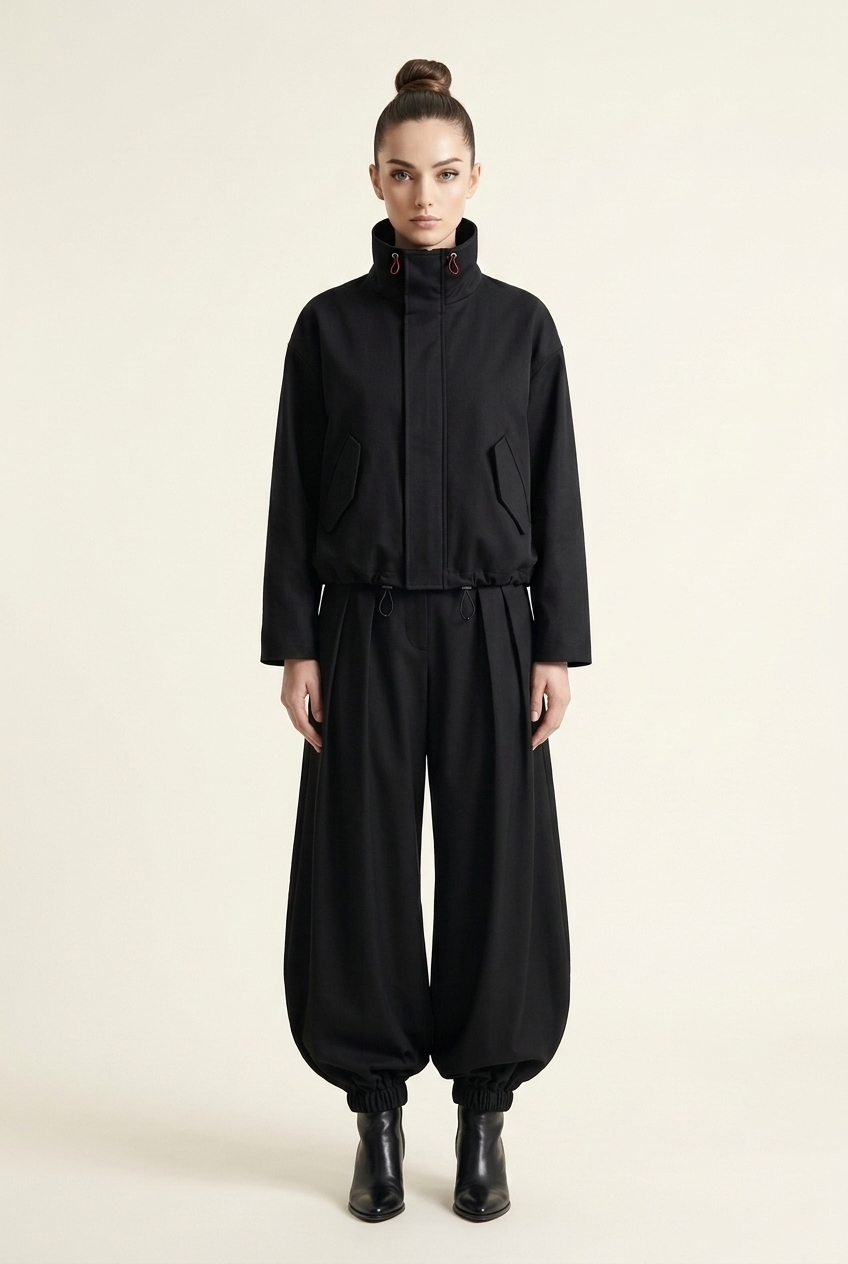
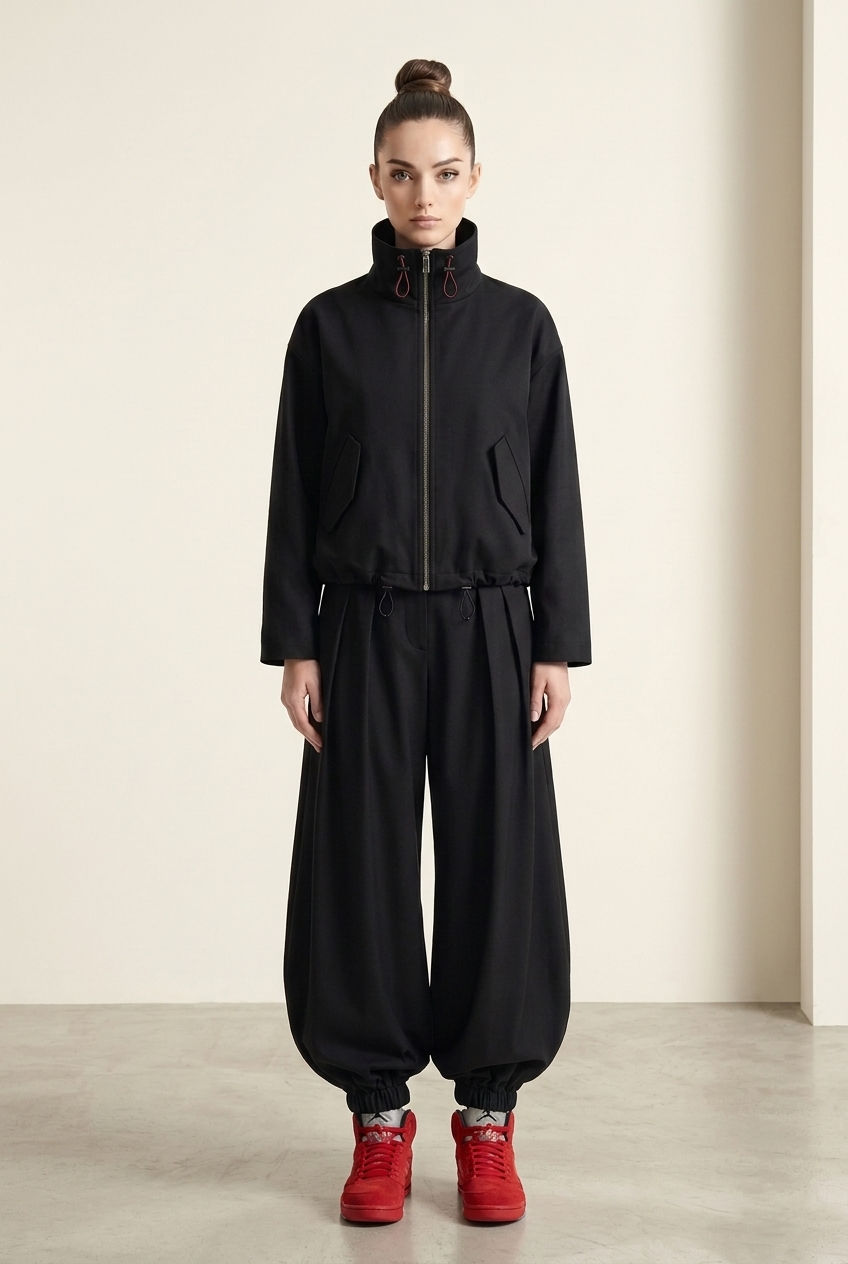
feat(kokusen): integrate Air Jordan 5 Retro Red Suede footwear styling and update visual assets to v1.4
- Register Air Jordan 5 Retro Red Suede reference in references/ and barrel files
- Regenerate and update 01-sketch-figurin-pantalon-globo.jpg with red sneakers
- Regenerate and update 01-sketch-personaje-frente.jpg with full look and red sneakers
- Regenerate and update 08-foto-realista-kokusen-hero.jpg editorial studio photo
- Synchronize SPEC.md, manifest.json, and index.ts to v1.4

Changed region(s): [[0.0, 0.0, 1.0, 1.0], [0.4599, 0.1851, 0.5519, 0.4628]]

diff --git a/Andreart Brain/01 Brand Context/Colecciones/Kokusen/index.ts b/Andreart Brain/01 Brand Context/Colecciones/Kokusen/index.ts
@@ -1,5 +1,5 @@
 /**
- * Collection Asset Barrel: Kokusen (v1.3)
+ * Collection Asset Barrel: Kokusen (v1.4)
  * AndreArt Vestuario - Urban Fantasy Haute Couture
  * 
  * Central entry point defining active assets, garments, and source references.
@@ -36,7 +36,7 @@ export interface CollectionReference {
 export const COLLECTION_INFO = {
   name: 'Kokusen',
   slug: 'kokusen',
-  version: '1.3',
+  version: '1.4',
   updatedAt: '2026-11-07',
   season: 'Atemporal / Clima Frío y Montaña (Bogotá)',
   concept: 'Deconstrucción sastre del uniforme de combate de Yuji Itadori (Jujutsu Kaisen, Shinjuku Showdown) y la técnica Kokusen',
@@ -70,8 +70,8 @@ export const ASSETS: Record<string, CollectionAsset> = {
     category: 'figurine',
     garment: 'Pantalón Globo Plisado Kokusen',
     view: 'pasarela',
-    description: 'Figurín de autor protagónico mostrando en exclusiva el Pantalón Globo Plisado con top fajado.',
-    sourceReference: './references/refe-pantalon-globo-01.jpg',
+    description: 'Figurín de autor protagónico mostrando en exclusiva el Pantalón Globo Plisado con top fajado y zapatillas Air Jordan 5 Retro Red Suede en gamuza carmesí.',
+    sourceReference: './references/refe-pantalon-globo-01.jpg, ./references/refe-calzado-jordan-5-red-suede.jpg',
     status: 'active',
     approved: true
   },
@@ -82,8 +82,8 @@ export const ASSETS: Record<string, CollectionAsset> = {
     category: 'figurine',
     garment: 'Conjunto Kokusen',
     view: 'frente-pasarela',
-    description: 'Figurín de moda de pasarela del look total black integrado (Chaqueta + Pantalón Globo sobre botines).',
-    sourceReference: './references/refe-pantalon-globo-01.jpg',
+    description: 'Figurín de moda de pasarela del look total black integrado (Chaqueta Cuello Chimenea con tancas + Pantalón Globo Plisado sobre zapatillas Air Jordan 5 Retro Red Suede).',
+    sourceReference: './references/refe-pantalon-globo-01.jpg, ./references/refe-calzado-jordan-5-red-suede.jpg',
     status: 'active',
     approved: true
   },
@@ -142,8 +142,8 @@ export const ASSETS: Record<string, CollectionAsset> = {
     category: 'editorial',
     garment: 'Conjunto Kokusen',
     view: 'editorial-lookbook',
-    description: 'Fotografía editorial ultra-realista de estudio con modelo real vistiendo el conjunto Kokusen completo sobre tacones.',
-    sourceReference: './references/refe-pantalon-globo-02.jpg',
+    description: 'Fotografía editorial ultra-realista de estudio con modelo real vistiendo el conjunto Kokusen completo con zapatillas Air Jordan 5 Retro Red Suede.',
+    sourceReference: './references/refe-pantalon-globo-02.jpg, ./references/refe-calzado-jordan-5-red-suede.jpg',
     status: 'active',
     approved: true
   }
@@ -161,5 +161,11 @@ export const REFERENCES: Record<string, CollectionReference> = {
     path: './references/refe-pantalon-globo-02.jpg',
     type: 'drape-fit',
     description: 'Referencia de caída y drapeado de gabardina de alto gramaje con bota recogida sobre calzado cerrado.'
+  },
+  'refe-calzado-jordan-5-red-suede': {
+    filename: 'refe-calzado-jordan-5-red-suede.jpg',
+    path: './references/refe-calzado-jordan-5-red-suede.jpg',
+    type: 'footwear-styling',
+    description: 'Referencia de calzado insignia: Zapatillas Air Jordan 5 Retro Red Suede en gamuza carmesí (#D01E29), lengüeta reflectiva plateada 3M y seguro de cordones transparente.'
   }
 };

diff --git a/Andreart Brain/01 Brand Context/Colecciones/Kokusen/SPEC.md b/Andreart Brain/01 Brand Context/Colecciones/Kokusen/SPEC.md
@@ -7,7 +7,7 @@ skills_used:
   - "tailor"
   - "textile-engineer"
 status: active
-version: "1.3"
+version: "1.4"
 created_at: 2026-11-07
 updated_at: 2026-11-07
 collection_name: "Kokusen"
@@ -54,7 +54,8 @@ Diseñado con dedicación artesanal y visión de autor para integrar la presenci
 - **Base Estructural Atemporal:** Negro azabache (#0D0D0E) y Carbón profundo (#1C1D21) en tejido de sarga y gabardina con acabado mate sin reflejos.
 - **Atmósfera Interior:** Forro completo en satín negro azabache (#0A0A0B) de tacto sedoso tanto en el cuerpo de la chaqueta como en los fondos de bolsillo del pantalón.
 - **Herrajes y Fornituras:** Níquel pavonado negro mate en cremalleras, broches de presión ocultos y tancas de freno.
-- **Identidad Itadori:** 100% arquitectónica. No requiere detalles de color en el cuerpo de la prenda; la pertenencia al personaje se transmite exclusivamente a través del volumen, la altura y caída del cuello chimenea (con su discreto detalle de ojaletes y tanca) y el patronaje bombacho abullonado del pantalón globo recogido en los tobillos.
+- **Identidad Itadori:** 100% arquitectónica en las prendas. No requiere contrastes de color en el cuerpo del vestuario; la pertenencia al personaje se transmite exclusivamente a través del volumen, la altura y caída del cuello chimenea (con su discreto detalle de ojaletes y tanca) y el patronaje bombacho abullonado del pantalón globo recogido en los tobillos.
+- **Calzado Insignia de Estilismo (Contraste Carmesí Itadori):** Como elemento de estilismo icónico que corona el look urbano de pasarela, el conjunto se complementa con las zapatillas retro de baloncesto **Air Jordan 5 Retro "Red Suede"** en gamuza rojo escarlata (#D01E29), lengüeta plateada 3M reflectiva, seguro de cordones transparente y dientes de tiburón negros en la media suela (`references/refe-calzado-jordan-5-red-suede.jpg`). Los puños elásticos fruncidos del pantalón globo descansan holgados sobre la caña alta de los tenis, recreando con fidelidad insuperable el impacto visual del héroe.
 
 ---
 
@@ -78,7 +79,7 @@ Diseñado con dedicación artesanal y visión de autor para integrar la presenci
 
 ## 📸 4.0. Fotografía Editorial Realista (Lookbook Hero)
 ![[01 Brand Context/Colecciones/Kokusen/assets/08-foto-realista-kokusen-hero.jpg]]
-*Fotografía Editorial Realista:* Modelo luciendo el conjunto Kokusen completo en estudio de alta costura: blouson técnico en sarga pesada con cuello chimenea estructurado (11 cm), tapeta con cremallera central y tancas en cuello, combinado con el nuevo Pantalón Globo Plisado Kokusen de tiro alto con pinzas profundas y puños elásticos fruncidos sobre botines de cuero negro.
+*Fotografía Editorial Realista:* Modelo luciendo el conjunto Kokusen completo en estudio de alta costura: blouson técnico en sarga pesada con cuello chimenea estructurado (11 cm), tapeta con cremallera central y tancas en cuello, combinado con el nuevo Pantalón Globo Plisado Kokusen de tiro alto con pinzas profundas y puños elásticos fruncidos sobre las zapatillas de baloncesto de autor **Air Jordan 5 Retro "Red Suede"** en rica gamuza roja escarlata, con lengüeta plateada reflectiva 3M y seguro de cordones transparente.
 
 ---
 
@@ -87,11 +88,11 @@ Diseñado con dedicación artesanal y visión de autor para integrar la presenci
 
 ### Figurín Individual: Pantalón Globo Plisado Kokusen (Protagónico)
 ![[01 Brand Context/Colecciones/Kokusen/assets/01-sketch-figurin-pantalon-globo.jpg]]
-*Figurín de Autor (Pantalón Globo):* Modelo estilizada anime en pose erguida de pasarela luciendo en exclusiva el Pantalón Globo Plisado Kokusen en negro azabache (#0D0D0E): tiro alto con pretina sastre, pasadores, cinturón negro con hebilla sobria, pliegues frontales dobles profundos que abren un volumen curvo y fluido tipo bombacho/balloon, y puños elásticos fruncidos ceñidos sobre botines negros de punta fina. Combinado con un top minimalista negro fajado para mantener el protagonismo absoluto en la arquitectura del pantalón.
+*Figurín de Autor (Pantalón Globo):* Modelo estilizada anime en pose erguida de pasarela luciendo en exclusiva el Pantalón Globo Plisado Kokusen en negro azabache (#0D0D0E): tiro alto con pretina sastre, pasadores, cinturón negro con hebilla sobria, pliegues frontales dobles profundos que abren un volumen curvo y fluido tipo bombacho/balloon, y puños elásticos fruncidos descansando sobre las zapatillas **Air Jordan 5 Retro "Red Suede"** en gamuza roja carmesí con lengüeta plateada reflectiva. Combinado con un top minimalista negro fajado para mantener el protagonismo absoluto en la arquitectura del pantalón.
 
 ### Figurín de Conjunto Completo Kokusen (Chaqueta + Pantalón Globo)
 ![[01 Brand Context/Colecciones/Kokusen/assets/01-sketch-personaje-frente.jpg]]
-*Figurín de Pasarela (Look Completo):* Modelo estilizada anime luciendo el conjunto Kokusen total black definitivo: blouson técnico con cuello chimenea estructurado (11 cm), cremallera central con tancas en cuello, hombros caídos y el Pantalón Globo Plisado de tiro alto con puños elásticos sobre botines negros.
+*Figurín de Pasarela (Look Completo):* Modelo estilizada anime luciendo el conjunto Kokusen total black definitivo: blouson técnico con cuello chimenea estructurado (11 cm), cremallera central con tancas en cuello, hombros caídos y el Pantalón Globo Plisado de tiro alto con puños elásticos descansando sobre las zapatillas **Air Jordan 5 Retro "Red Suede"** en contraste carmesí de autor.
 
 ---
 
@@ -112,7 +113,10 @@ Diseñado con dedicación artesanal y visión de autor para integrar la presenci
 *Pantalón Globo - Vista Trasera:* Croquis técnico a mano alzada mostrando pretina trasera con pasadores, pinzas de entalle anatómico, doble bolsillo de vivo horizontal limpio, holgura dorsal y puños elásticos en bota.
 
 ![[01 Brand Context/Colecciones/Kokusen/references/refe-pantalon-globo-01.jpg]]
-*Referencia de Diseño y Flat de Taller:* Silueta de tiro alto con pretina sastre formal, cinturón, pliegues frontales dobles profundos y bota recogida en tobillo sobre botines de cuero. A la derecha, despiece en plano.
+*Referencia de Diseño y Flat de Taller:* Silueta de tiro alto con pretina sastre formal, cinturón, pliegues frontales dobles profundos y bota recogida en tobillo sobre calzado cerrado. A la derecha, despiece en plano.
+
+![[01 Brand Context/Colecciones/Kokusen/references/refe-calzado-jordan-5-red-suede.jpg]]
+*Referencia Oficial de Calzado:* Zapatillas Air Jordan 5 Retro "Red Suede" en gamuza roja carmesí (#D01E29), lengüeta plateada reflectiva 3M, tanca de cordones transparente y dientes de tiburón negros en la media suela. Aporte clave de contraste dinámico para el arquetipo Itadori.
 
 ---
 
@@ -122,13 +126,13 @@ La colección cuenta con un barrel tipado en TypeScript ([index.ts](file:///User
 
 | ID del Activo | Archivo en `assets/` | Tipología | Prenda / Pieza | Referencia Fuente |
 | :--- | :--- | :--- | :--- | :--- |
-| `01-sketch-figurin-pantalon-globo` | `01-sketch-figurin-pantalon-globo.jpg` | Figurín Protagónico | Pantalón Globo Plisado Kokusen | `references/refe-pantalon-globo-01.jpg` |
-| `01-sketch-personaje-frente` | `01-sketch-personaje-frente.jpg` | Figurín Conjunto Completo | Conjunto Kokusen Total Black | `references/refe-pantalon-globo-01.jpg` |
+| `01-sketch-figurin-pantalon-globo` | `01-sketch-figurin-pantalon-globo.jpg` | Figurín Protagónico | Pantalón Globo Plisado Kokusen | `references/refe-pantalon-globo-01.jpg` + `references/refe-calzado-jordan-5-red-suede.jpg` |
+| `01-sketch-personaje-frente` | `01-sketch-personaje-frente.jpg` | Figurín Conjunto Completo | Conjunto Kokusen Total Black | `references/refe-pantalon-globo-01.jpg` + `references/refe-calzado-jordan-5-red-suede.jpg` |
 | `04-sketch-chaqueta-frente` | `04-sketch-chaqueta-frente.jpg` | Plano Técnico (Delantero) | Chaqueta Cuello Chimenea Kokusen | Moldería atelier (Cuello 11 cm) |
 | `05-sketch-chaqueta-atras` | `05-sketch-chaqueta-atras.jpg` | Plano Técnico (Trasero) | Chaqueta Cuello Chimenea Kokusen | Moldería atelier (Canesú limpio) |
 | `06-sketch-pantalon-frente` | `06-sketch-pantalon-frente.jpg` | Plano Técnico (Delantero) | Pantalón Globo Plisado Kokusen | `references/refe-pantalon-globo-01.jpg` |
 | `07-sketch-pantalon-atras` | `07-sketch-pantalon-atras.jpg` | Plano Técnico (Trasero) | Pantalón Globo Plisado Kokusen | `references/refe-pantalon-globo-01.jpg` |
-| `08-foto-realista-kokusen-hero` | `08-foto-realista-kokusen-hero.jpg` | Editorial de Lookbook | Conjunto Kokusen Total Black | `references/refe-pantalon-globo-02.jpg` |
+| `08-foto-realista-kokusen-hero` | `08-foto-realista-kokusen-hero.jpg` | Editorial de Lookbook | Conjunto Kokusen Total Black | `references/refe-pantalon-globo-02.jpg` + `references/refe-calzado-jordan-5-red-suede.jpg` |
 
 ---
 
@@ -163,7 +167,7 @@ La colección cuenta con un barrel tipado en TypeScript ([index.ts](file:///User
 ### Look Diario Casual / Viernes Urbano (El Arquetipo Itadori al Descubierto)
 • **Porte de la Chaqueta:** Sube la cremallera al 100% cubriendo el cuello y mandíbula, y ajusta ligeramente las tancas para marcar la silueta de combate característica del personaje.
 • **Porte del Pantalón:** El puño elástico fruncido permite posicionar la bota justo en el tobillo o subirla un par de centímetros sobre la pantorrilla para un look táctico y dinámico.
-• **Calzado y Estilismo Casual:** Calzado deportivo limpio o botines urbanos de suela estructurada. Las prendas de la colección se mantienen rigurosamente 100% monocromáticas en negro azabache, proyectando la silueta de combate de Yuji Itadori con la sobriedad y madurez de una pieza de alta sastrería.
+• **Calzado Insignia de Estilismo:** Zapatillas de baloncesto retro **Air Jordan 5 Retro "Red Suede"** en gamuza roja carmesí (`references/refe-calzado-jordan-5-red-suede.jpg`), con lengüeta plateada reflectiva y tanca de cordones. Las prendas de la colección se mantienen rigurosamente 100% monocromáticas en negro azabache, proyectando la silueta de combate de Yuji Itadori con la sobriedad y madurez de una pieza de alta sastrería.
 
 ---
 
@@ -178,6 +182,7 @@ La colección cuenta con un barrel tipado en TypeScript ([index.ts](file:///User
 ---
 
 ## 🔄 Historial de Revisiones (Changelog)
+- **v1.4 (2026-11-07):** Integración de calzado de estilismo oficial: zapatillas Air Jordan 5 Retro "Red Suede" (`references/refe-calzado-jordan-5-red-suede.jpg`), estableciendo el contraste carmesí de autor sobre el conjunto Total Black.
 - **v1.3 (2026-11-07):** Depuración y consolidación de galería: eliminación de croquis y bocetos descartados de pantalones rectos y chaquetas con capucha previas; consolidación de los activos definitivos del conjunto Kokusen (Pantalón Globo Plisado + Chaqueta Cuello Chimenea).
 - **v1.2 (2026-11-07):** Reemplazo de silueta de pantalón recto por el **Pantalón Globo Plisado Kokusen (Bombacho)** con pretina sastre, pinzas frontales profundas y puños elásticos fruncidos sobre botines, capturando con fidelidad la silueta de combate de Yuji Itadori para uso en oficina.
 - **v1.1 (2026-11-07):** Oficialización del nombre "Kokusen", ajuste de forros a negro total en ambas prendas y refinamiento de la guía de estilismo para oficina.
